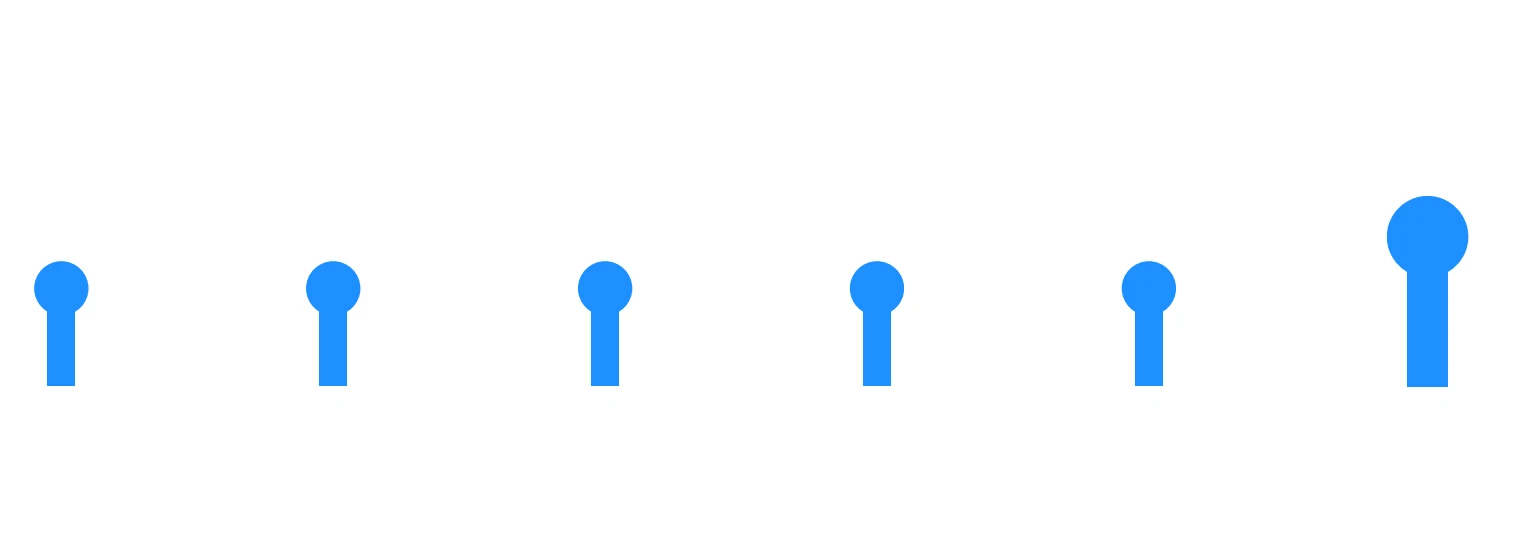
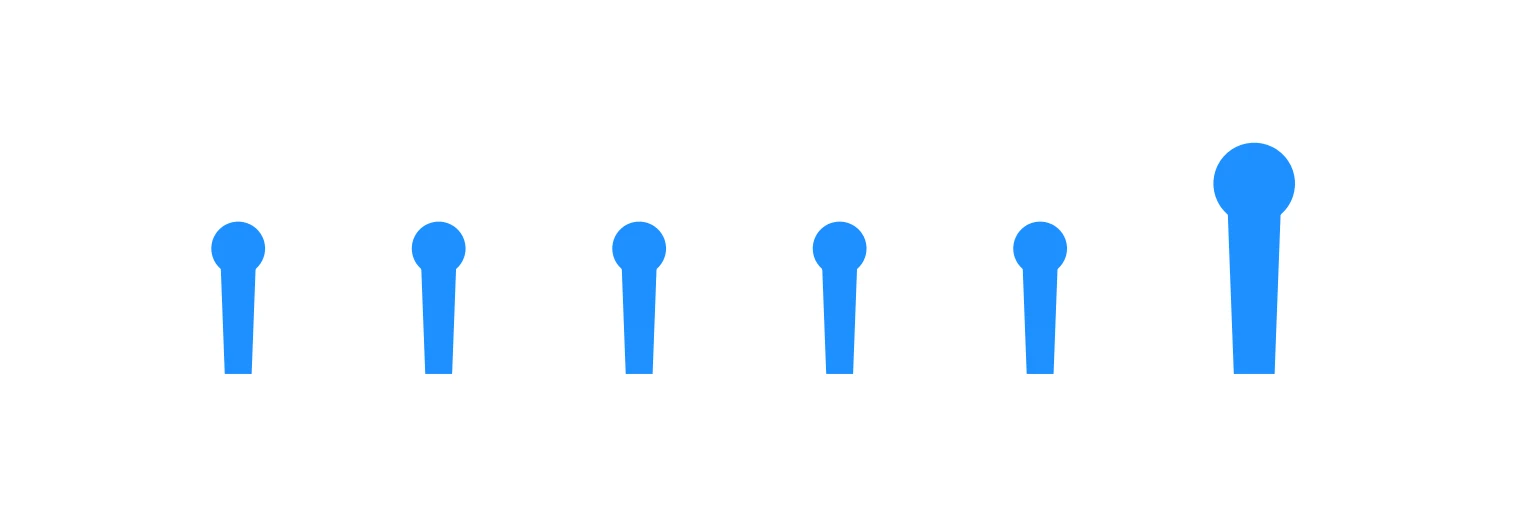
Shootoff as svg & center oversized targets

diff --git a/templates/pdf_template_shootoff.html b/templates/pdf_template_shootoff.html
@@ -66,6 +66,7 @@
             border-top: solid 1px black;
             width: 100%;
             height: 75mm;
+            text-align: center;
         }
 
         .preview-post {
@@ -82,31 +83,18 @@
 
         <div class="preview">
             {% for i in range(target_count) %}
-                {% if i == target_count-1 %}
-                <div class="post preview-post"
-                    style="width: {{ preview_scale * 150}}mm; height: {{ preview_scale * 550 }}mm; left: {{i * preview_scale * 1000}}mm">
-                    <div class="target circle" style="
-                                width: {{ preview_scale * 300 }}mm;
-                                height: {{ preview_scale * 300 }}mm;
-                                bottom: {{ (preview_scale * 550) - ((preview_scale * 300)/2) }}mm;
-                                right: {{ (preview_scale * (300/2)) - (preview_scale * 150 * 1.5) }}mm;
-                                ">
-
-                    </div>
+                <div style="margin: 20mm {{preview_scale*25}}cm 0 {{preview_scale*25}}cm; display: inline-block;">
+                    {% if i == target_count-1 %}
+                        {% with target_width=preview_scale * 30, target_height=preview_scale * 85 %}
+                            {% include 'popper_svg.html' %}
+                        {% endwith %}
+                    {% else %}
+                        {% with target_width=preview_scale * 20, target_height=preview_scale * 56 %}
+                            {% include 'popper_svg.html' %}
+                        {% endwith %}
+                    {% endif %}
                 </div>
-                {% else %}
-                <div class="post preview-post"
-                    style="width: {{ preview_scale * 100}}mm; height: {{ preview_scale * 360 }}mm;  left: {{i * preview_scale * 1000}}mm">
-                    <div class="target circle" style="
-                                        width: {{ preview_scale * 200 }}mm;
-                                        height: {{ preview_scale * 200 }}mm;
-                                        bottom: {{ (preview_scale * 360) - ((preview_scale * 200)/2) }}mm;
-                                        right: {{ (preview_scale * (200/2)) - (preview_scale * 100 * 1.5) }}mm;
-                                        ">
-
-                        </div>  
-                </div>
-                {% endif %}
+        
             {% endfor %}
         </div>
         <p>{%trans%}Wall length required{%endtrans%}: {{ wall_length|round(1,'ceil') }}cm</p>
@@ -124,32 +112,13 @@
     <div class="page-break">
         <div class="content">
             {% if i == target_count-1 %}
-
-            <div class="post"
-            
-                style="width: {{ scale * 150}}mm; height: {{ scale * 550 }}mm;">
-                <div class="target circle" style="
-                             width: {{ scale * 300 }}mm;
-                             height: {{ scale * 300 }}mm;
-                             bottom: {{ (scale * 550) - ((scale * 300)/2) }}mm;
-                             right: {{ (scale * (300/2)) - (scale * 150 * 1.5) }}mm;
-                             ">
-
-                </div>
-            </div>
+                {% with target_width=scale * 30, target_height=scale * 85 %}
+                    {% include 'popper_svg.html' %}
+                {% endwith %}
             {% else %}
-            <div class="post"
-                style="width: {{ scale * 100}}mm; height: {{ scale * 360 }}mm;">
-                <div class="target circle" style="
-                                    width: {{ scale * 200 }}mm;
-                                    height: {{ scale * 200 }}mm;
-                                    bottom: {{ (scale * 360) - ((scale * 200)/2) }}mm;
-                                    right: {{ (scale * (200/2)) - (scale * 100 * 1.5) }}mm;
-                                    ">
-
-                    </div>  
-            </div>
-                    
+                {% with target_width=scale * 20, target_height=scale * 56 %}
+                    {% include 'popper_svg.html' %}
+                {% endwith %}
             {% endif %}
             {% if i==0 %}
             <div class="mounting-info">{%trans%}ZERO point{%endtrans%} (Shootoff)</div>

diff --git a/templates/pdf_template_custom.html b/templates/pdf_template_custom.html
@@ -30,6 +30,16 @@
             left: 0;
             right: 0;
         }
+        .content-oversized {
+            position: relative;
+            height: {{target_height}}cm; /* Paper height */
+            overflow: hidden; /* Hide overflow on both sides */
+        }
+        .content-oversized svg {
+            position: absolute;
+            left: 50%; /* Move to the center */
+            transform: translateX(-50%); /* Center the SVG horizontally */
+        }
 
         .mounting-point {
             height: 10mm;
@@ -42,6 +52,17 @@
             font-size: xx-small;
             color: #ccc;
             text-align: center;
+        }
+
+        .mounting-info-oversized {
+            font-size: xx-small;
+            color: #ccc;
+            text-align: center;
+            position: absolute;
+            z-index: 111;
+            bottom: 1.5cm;
+            left: 50%;
+            transform: translateX(-50%);
         }
 
         .preview {
@@ -61,7 +82,7 @@
 
 <body>
     <div class="page-break">
-        <div class="content">
+        <div class="content{% if oversized %}-oversized{% endif %}">
              {% with target_width=target_width, target_height=target_height %}
                 {% if target_type == 'ipsc' %}
                     {%include 'ipsc_svg.html'%}
@@ -74,7 +95,7 @@
                 {% endif%}
             {% endwith %}
             <br>
-            <div class="mounting-info">
+            <div class="mounting-info{% if oversized %}-oversized{% endif %}">
                 {%trans%}Target{%endtrans%}: {{ target_type|upper }} | {%trans%}Simulated distance{%endtrans%}: {{ simulated_distance }}m | {%trans%}Place target on{%endtrans%}: {{distance}}m
                 <br>
                 Steel Training

diff --git a/app.py b/app.py
@@ -296,16 +296,23 @@ def generate_pdf_custom():
         'ts2': (TS2_HEIGHT, TS2_WIDTH),
         'popper': (POPPER_HEIGHT, POPPER_WIDTH),
     }[target_type]
+    target_height=scale * original_target_height
+    target_width=scale * original_target_width
+    if (size == 'a4' and target_width > 21) or (size == 'a3' and target_width > 29.7):
+       oversized = True
+    else:
+       oversized = False
 
     rendered_html = render_template(
         'pdf_template_custom.html',
         distance=distance,
         size=size,
-        target_height=scale * original_target_height,
-        target_width=scale * original_target_width,
+        target_height=target_height,
+        target_width=target_width,
         gap=scale * IPSC_GAP + scale * original_target_width,
         target_type=target_type,
-        simulated_distance=simulated_distance
+        simulated_distance=simulated_distance,
+        oversized=oversized
     )
 #     return rendered_html
 
